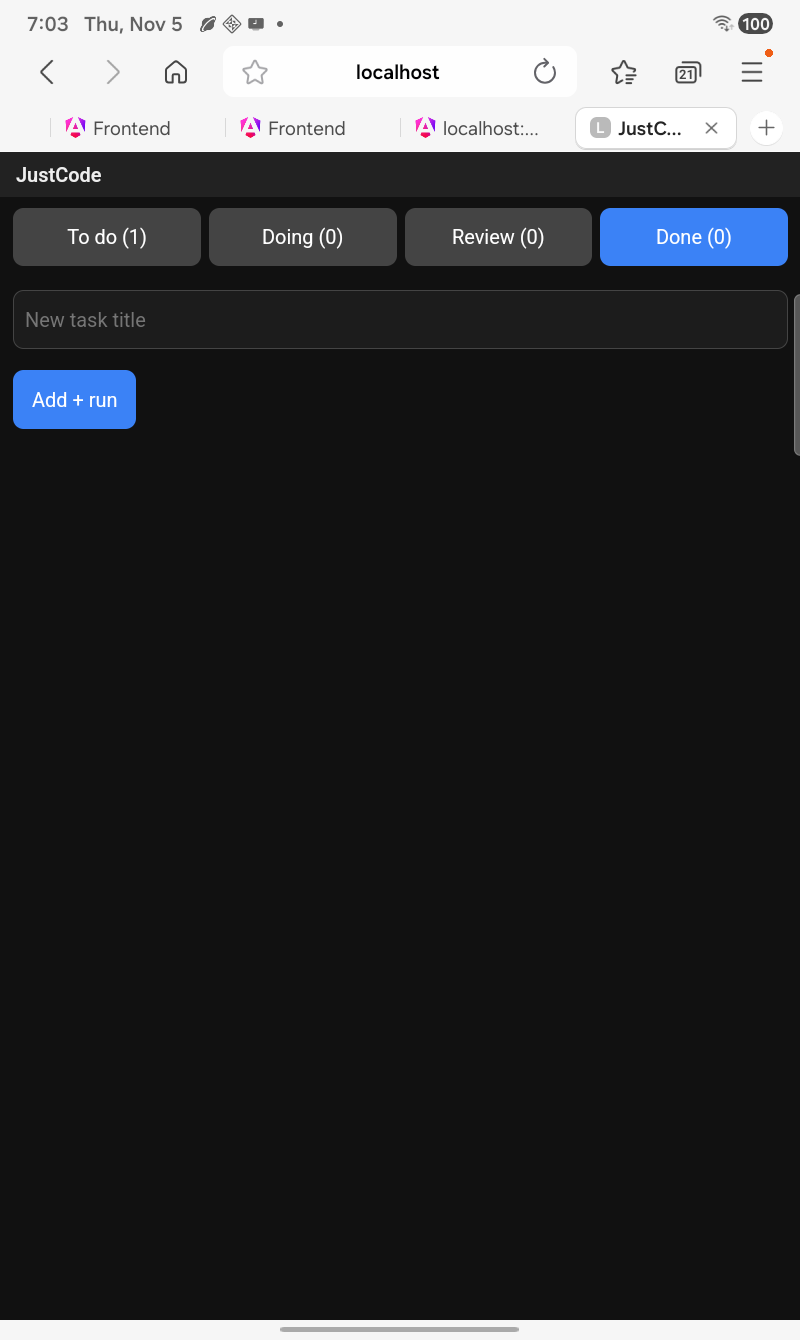
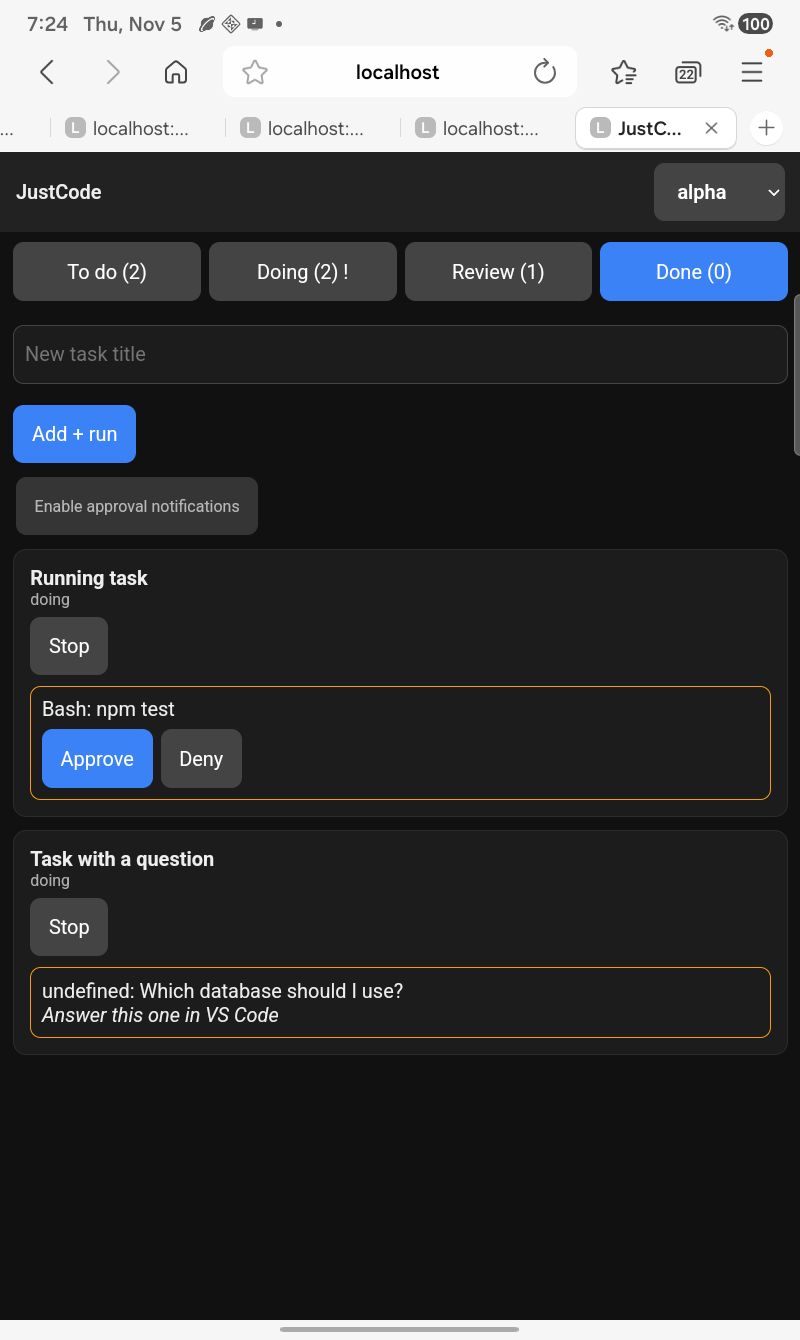
Capture tablet baseline and write action test checklist

diff --git a/docs/adb-smoke.md b/docs/adb-smoke.md
@@ -70,23 +70,24 @@ Failures found:
 UNVERIFIED: native *Move to…* picker (not visible to adb); project picker (the fake backend returns no projects); real-extension run (needs a manual pairing code); landscape orientation.
 
 ## Tablet action checklist (SM-X133, 800x1340)
-Baseline shots (re-captured 2026-11-05 with `PORT=7899 OUT=docs/smoke/tablet scripts/adb-smoke.sh`, fake backend) are in `docs/smoke/tablet/`: `01-open` (open), `07-tab-todo|doing|review|done` (each tab), `03-permission` (cards with asks: Approve/Deny permission and a question card, plus the project select, notification button and dialog). The script reads the screen size from `adb shell wm size` and scales its fallback taps. `PORT` env overrides 7878 (use it when another backend holds the port).
-Run each action against the fake backend, wait ~3s, screencap, compare to Expected.
+Driven by hand with adb taps against the fake backend (`PORT=7899`) on 2026-11-05; screenshots in `docs/smoke/tablet/`. The `Please confirm` dialog the fake backend raises at startup was dismissed (OK) before each shot except where noted. `scripts/adb-smoke.sh` reads the screen size from `adb shell wm size` and scales its fallback taps; `PORT` overrides 7878 when another backend holds it. If a second device/emulator is attached, set `ANDROID_SERIAL`.
+Shots: `01-open` (open), `02-add-task` (title typed), `03-permission` (after Add + run: permission card with Approve/Deny, question card, notification button), `04-merge-button`/`04b-review-tab` (after Approve), `05-confirm`/`05b-merge-cancel`/`06-done`, `07-tab-*` (each tab), `11`..`16` below. `08`-`10` (drag) are from the earlier run.
 
-| Action | How | Expected |
+| Action | Result observed (shot) | Status |
 |---|---|---|
-| Run | Todo card, tap *Run* | Card leaves To do, appears under Doing with a *Stop* button |
-| Stop | Doing card, tap *Stop* | Asks cleared, card returns to To do (fake) / stops running |
-| Approve | Permission card, tap *Approve* | Ask disappears; task moves to Review with Merge button |
-| Deny | Permission card, tap *Deny* | Ask disappears; task returns to To do, not busy |
-| Answer | Question card | Shows "Answer this one in VS Code" (phone cannot answer questions); only allow/deny accepted by server |
-| Move select | Todo card, *Move to…* -> doing/review | Card moves to that tab, counts update (native picker not visible to adb: verify by hand) |
-| Long-press drag | `adb shell input touchscreen draganddrop 300 545 176 479 1500` onto *Doing* tab | Card moves, tab outlined while hovered, no text selection toolbar; drop on *Done* shows red refusal message, no alert |
-| Project picker | Header select (alpha/beta/gamma), pick another | List reloads for that project |
-| Tabs | Tap To do / Doing / Review / Done | Only that column's cards show; counts in labels match |
-| Add task | Type title, tap *Add + run* | New card under Doing (To do if added without run); empty title is rejected |
-| Dialog reply | Board dialog ("Please confirm") tap *OK* / *Cancel* | Dialog closes; the board receives the chosen button |
-| Merge | Review card, *Merge*, then *Merge* in the confirm dialog | Card moves to Done, Done count +1; Cancel leaves it in Review |
-| Notification button | Tap *Enable approval notifications* | Browser permission prompt; on grant the button hides; new asks raise a notification |
+| Run | Todo task *Run*: left To do, Doing count +1 (12, 13) | PASS |
+| Stop | Smoke task *Stop*: left Doing, To do 1 -> 2, shows Run again (11) | PASS |
+| Approve | *Approve* on Running task: ask gone, task in Review with *Move to…* + *Merge*, Review 2 (04, 04b) | PASS |
+| Deny | *Deny*: ask gone, task back in To do with *Run*, not busy, Doing 2 -> 1 (15) | PASS |
+| Answer | Question card shows "Answer this one in VS Code", no buttons; phone cannot answer questions (03) | PASS |
+| Move select | Native popup is not in the screenshot, but tap select + `input keyevent 20` (down) + `66` (enter) picked *doing*: backend state `doing` (14) | PASS (by keyboard) |
+| Long-press drag | Earlier run: drag onto Doing moved the card, onto Done refused with red message and no alert (08-10) | PASS (earlier run, not repeated) |
+| Project picker | Header select lists alpha/beta/gamma (the fake backend does return them; the older "no projects" note was stale). Same keyboard method picked *beta*: header shows beta, `/api/state` current `/fake/beta` (13). The fake shares one task list across projects, so the list does not change | PASS |
+| Tabs | Each tab shows its count and cards (07-*). Cards with a pending ask (Running task, question) also show on the To do tab; the Doing tab lists only doing cards | PASS |
+| Add task | Typed "Smoke task", *Add + run*: Doing 2 -> 3, new card with Stop (02, 03). Empty title not tried | PASS |
+| Dialog reply | Startup dialog *OK* closed it (01). Merge dialog *Cancel*: nothing moved, backend got no button (05b) | PASS |
+| Merge | *Merge* then *Merge* in dialog: Review task is in Done, Done (1) (05, 06) | PASS |
+| Notification button | *Enable approval notifications* opens the browser prompt "Allow notifications from this website?" Block / Allow (16). I tapped Block; the grant path (button hides, notification on a new ask) is UNVERIFIED | PARTIAL |
 
-Seen in the baseline: the question card reads "undefined: Which database should I use?" because the fake ask has no `tool`; check whether the page should omit the prefix.
+Observed: the question card reads "undefined: Which database should I use?" because the fake ask has no `tool`; the page should probably omit the prefix.
+UNVERIFIED: empty-title add, notification grant and delivery, drag in this run, real extension, landscape.
